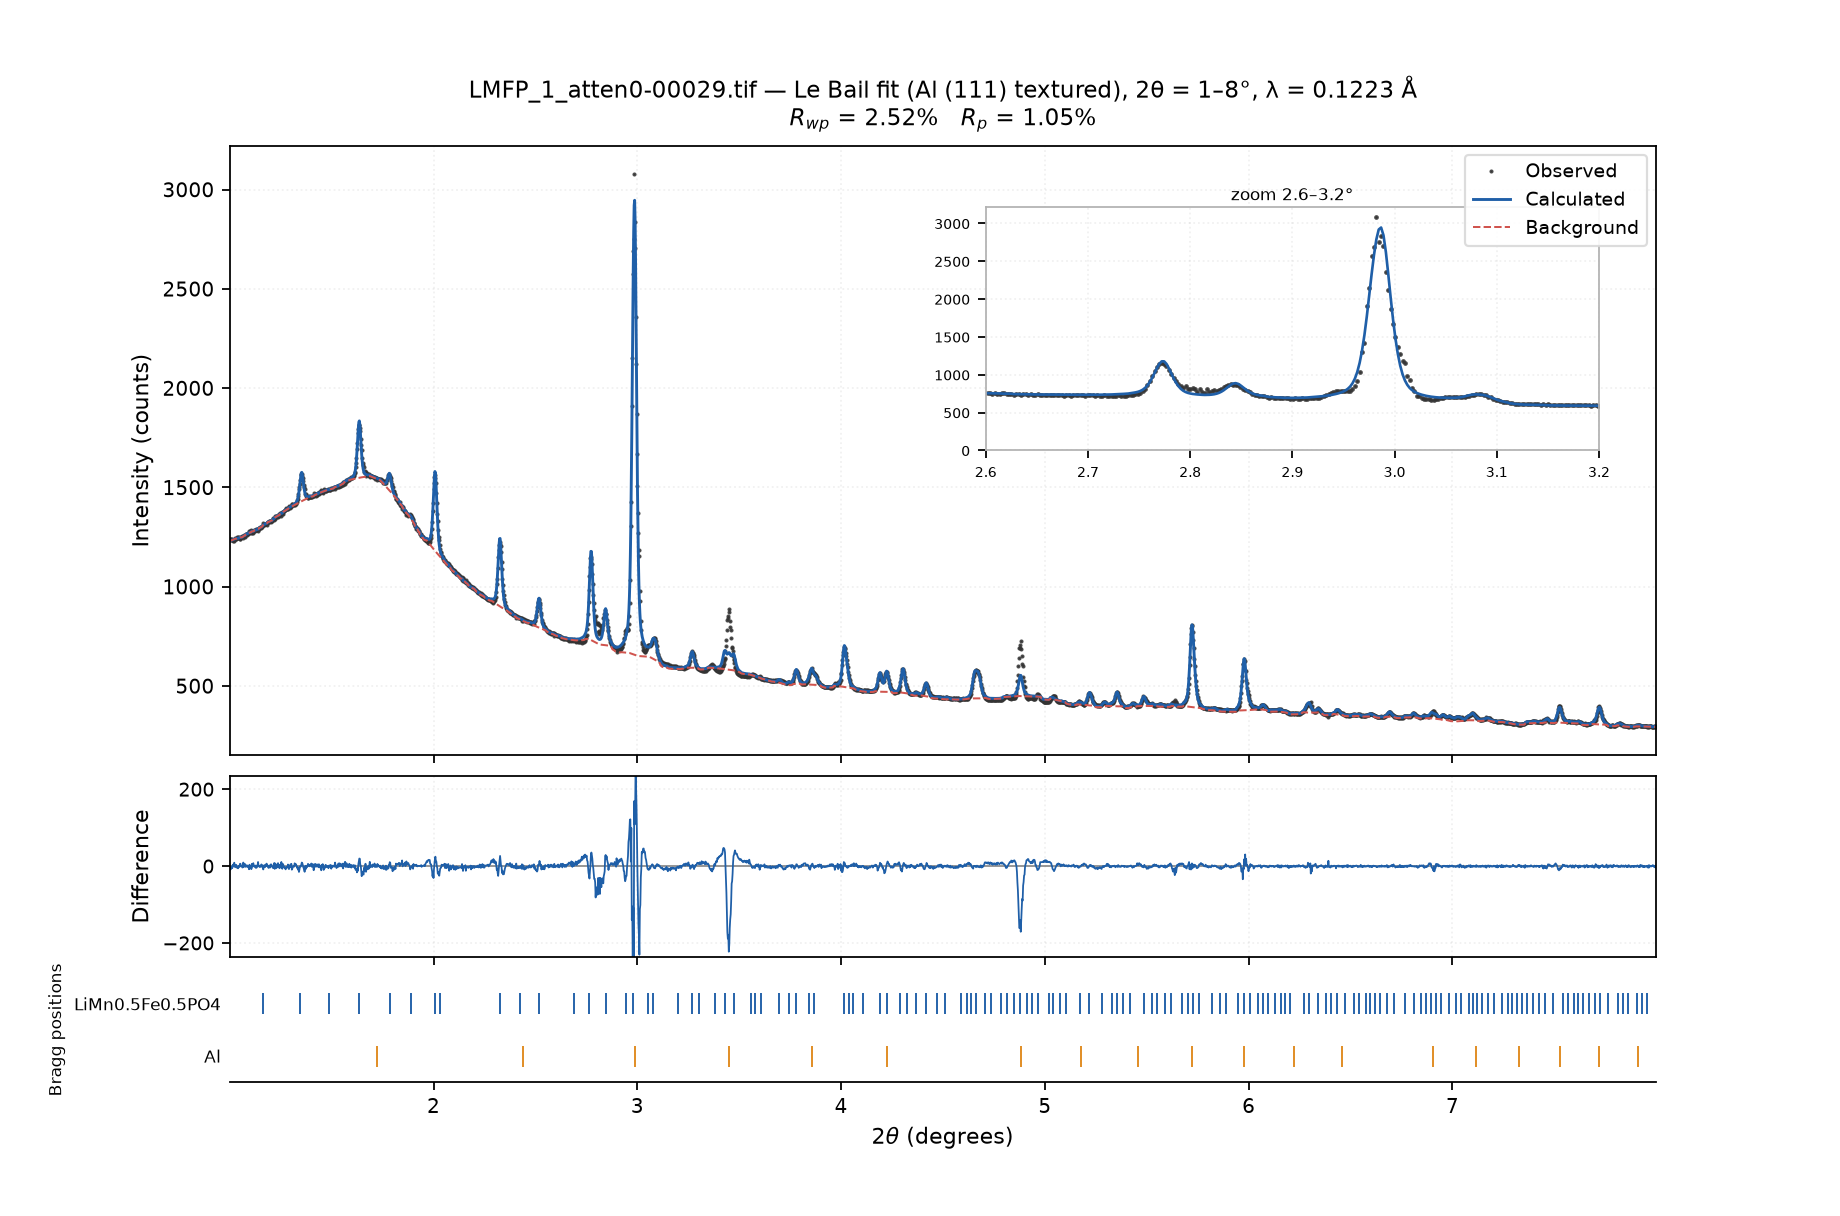
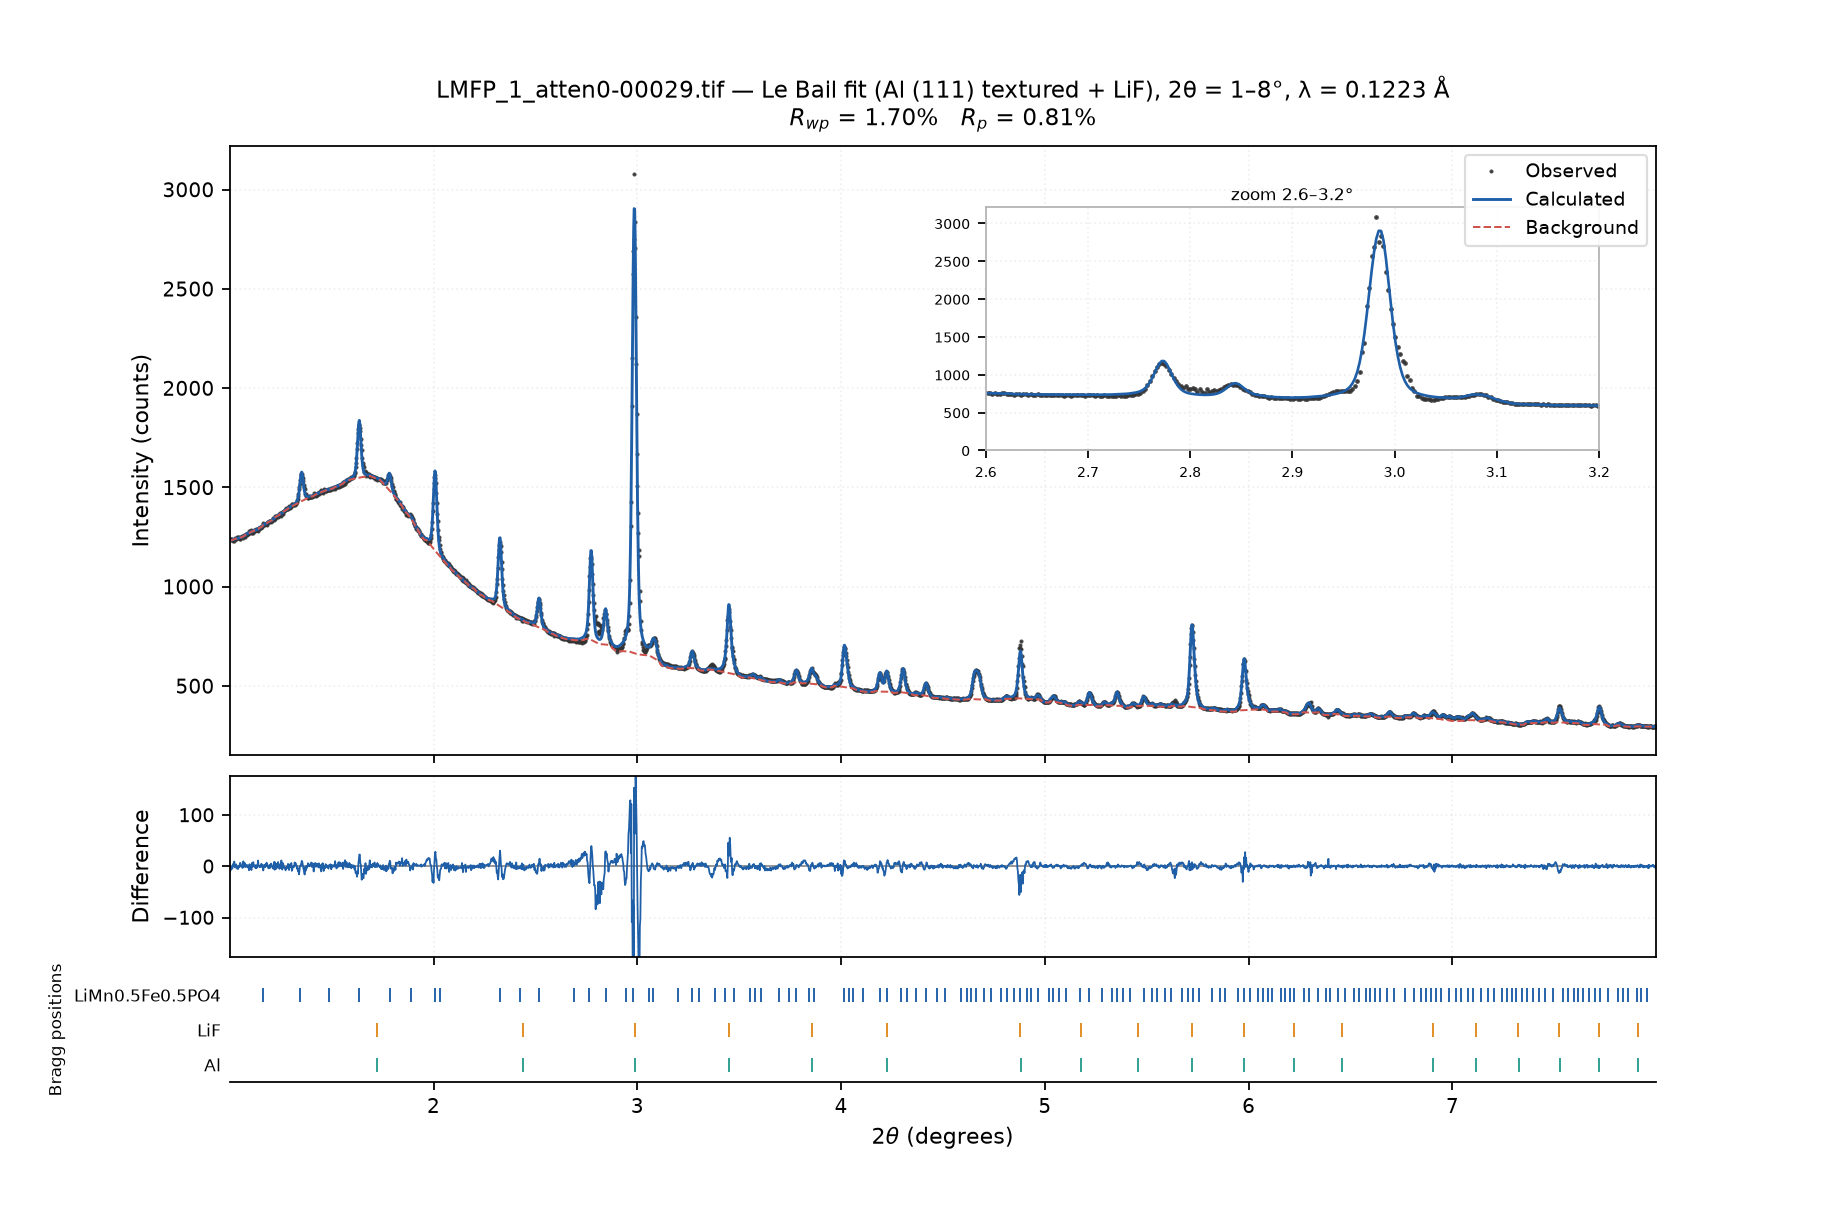
feat: identify the LMFP weak peaks as a LiF impurity
- the 3.449/4.881/5.724 deg peaks are the (200)/(220)/(311) reflections
  of rock-salt LiF with an effective a=4.062 A (literature 4.027 A,
  slightly expanded, consistent with strained SEI LiF); LiF (111) sits
  under Al (111)
- add data/structures/LiF_rock_salt.cif and include LiF in fit_lmfp /
  analyze_pattern by default (scale only, --no-lif to disable)
- LMFP Le Bail Rwp 2.53 -> 1.70%, structural 3.46 -> 2.90%, LiF scale
  ~0.084; refresh the figures/reports
- cross-check the new CIF in test_simulation

diff --git a/scripts/fit_lmfp.py b/scripts/fit_lmfp.py
@@ -48,6 +48,9 @@ LAB6_CIF = ROOT / "data" / "structures" / "LaB6_NIST660c.cif"
 # 样品晶胞初值：由低角峰 (200)/(101)/(111)/(020) 粗估（Å）
 SAMPLE_CELL = (10.376, 6.040, 4.708)
 AL_CIF = ROOT / "data" / "structures" / "Al_metal.cif"
+# 电极里常见的 LiF（SEI/电解液残留）：有效晶胞 a=4.062 Å；它的
+# (200)/(220)/(311) 正好在 3.45/4.88/5.72°，只放 scale。
+LIF_CIF = ROOT / "data" / "structures" / "LiF_rock_salt.cif"
 
 
 def load_1d(path, geom, tmin=1.0, tmax=8.0, npt=3000, hot_mask=False):
@@ -78,7 +81,7 @@ def instrument_profile(geom, lam):
 
 
 def fit_one(path, structure, geom, lam, inst, outdir, exclude, cif_cell,
-            use_al=False, phase_label=None, hot_mask=True):
+            use_al=False, phase_label=None, hot_mask=True, use_lif=True):
     t, y = load_1d(path, geom, hot_mask=hot_mask)
     bg = estimate_baseline_sliding(t, y, 0.2)
     w = 1.0 / np.maximum(y, 1.0)
@@ -90,16 +93,20 @@ def fit_one(path, structure, geom, lam, inst, outdir, exclude, cif_cell,
         w_struct = w_leb
 
     extras = []
+    if use_lif:
+        extras.append({
+            "structure": load_structure(str(LIF_CIF)), "label": "LiF",
+            "size_um": 0.1, "mustrain": 0.0, "b_iso": 0.5})
     if use_al:
         al = load_structure(str(AL_CIF))
-        extras = [{
+        extras.append({
             "structure": al, "label": "Al",
             "a": 4.061, "b": 4.061, "c": 4.061,
             "size_um": 0.1, "mustrain": 0.0, "b_iso": 0.5,
             # 铝箔是轧制的，(111) 强取向；固定 (111) 织构才能解释
             # 2.99° 的强峰与很弱的 (200)/(220)/(311)。
             "md": ((1, 1, 1), 0.5),
-        }]
+        })
     init = {
         "zero": inst.params["zero"],
         "u": inst.params["u"], "v": inst.params["v"], "w": inst.params["w"],
@@ -117,7 +124,7 @@ def fit_one(path, structure, geom, lam, inst, outdir, exclude, cif_cell,
     # 弱反射的相对强度受织构/晶粒统计影响，结构模型压不住；结构拟合
     # 只负责晶胞/微结构。不带 Al 时仍用排除 Al 区的 Le Bail。
     leb_weights = w if use_al else w_leb
-    leb_extras = extras if use_al else []
+    leb_extras = extras
     lebail = fit_pattern(
         structure, t, y, wavelength=lam, b_iso=0.5, background=bg,
         background_knots=0.25, weights=leb_weights, cell_refine=True,
@@ -131,10 +138,12 @@ def fit_one(path, structure, geom, lam, inst, outdir, exclude, cif_cell,
     tag = path.stem.rsplit("-", 1)[-1]
     out = outdir / f"sim_xrd_fit_LMFP_{tag}.png"
     plot_src = lebail
+    phases = (["Al (111) textured"] if use_al else []) + \
+             (["LiF"] if use_lif else [])
+    phase_txt = f" ({' + '.join(phases)})" if phases else ""
     plot_fit(
         plot_src,
-        f"{path.name} — Le Bail fit"
-        f"{' (Al (111) textured)' if use_al else ''}"
+        f"{path.name} — Le Bail fit{phase_txt}"
         f", 2θ = 1–8°, λ = {lam:.4f} Å",
         str(out), zoom=(2.6, 3.2),
         exclude_ranges=[] if use_al else list(exclude))
@@ -154,6 +163,8 @@ def main():
     ap.add_argument("--tmax", type=float, default=8.0)
     ap.add_argument("--no-hot-mask", action="store_true",
                     help="关掉坏点团掩膜（默认开；标样本来就不过掩膜）")
+    ap.add_argument("--no-lif", action="store_true",
+                    help="不加 LiF 杂质相（默认加；scale 自由，没有时归零）")
     a = ap.parse_args()
     geom = dict(get_config("lmfp1_lab6")["geometry"])
     lam = geom["wavelength_m"] * 1e10
@@ -189,9 +200,11 @@ def main():
         struct, lebail, out = fit_one(
             p, structure, geom, lam, inst, outdir, exclude, SAMPLE_CELL,
             use_al=use_al, phase_label=cif.stem.split("_")[0],
-            hot_mask=not a.no_hot_mask)
+            hot_mask=not a.no_hot_mask, use_lif=not a.no_lif)
         al_scale = (lebail.params.get("Al:scale") if use_al
                     and lebail is not None else struct.params.get("Al:scale"))
+        lif_scale = (lebail.params.get("LiF:scale")
+                     if lebail is not None else None)
         leb_txt = (f"{lebail.rwp:10.3f}" if lebail is not None
                    else f"{chr(8212):>10}")
         print(f"{p.name:>28} {struct.rwp:8.3f} {leb_txt} "
@@ -205,6 +218,8 @@ def main():
               f"ΔB={struct.params['b_iso']:+.2f} Å²"
               + (f"，Al scale（Le Bail）={al_scale:.3g}"
                  if al_scale is not None else "")
+              + (f"，LiF scale（Le Bail）={lif_scale:.3g}"
+                 if lif_scale is not None else "")
               + f"；→ {out}")
 
 

diff --git a/scripts/analyze_pattern.py b/scripts/analyze_pattern.py
@@ -42,6 +42,8 @@ OLIVINE_LIB = [
     STRUCT / "LiMnPO4_olivine.cif",
 ]
 AL_CIF = STRUCT / "Al_metal.cif"
+# 电极里常见的 LiF（SEI/电解液残留）：有效 a=4.062 Å
+LIF_CIF = STRUCT / "LiF_rock_salt.cif"
 DEFAULT_IMAGES = [
     ROOT / "data" / "LMFP_1_atten0-00029.tif",
     ROOT / "data" / "LMFP_1_atten0-00031.tif",
@@ -160,7 +162,7 @@ def al_substrate_ranges(obs_t, obs_h, lam, tmin, tmax, zero, primary_cif,
 
 
 def fit_one(path, primary, primary_name, cell0, geom, lam, inst, outdir,
-            exclude, tmin, tmax, use_al=False, hot_mask=True):
+            exclude, tmin, tmax, use_al=False, hot_mask=True, use_lif=True):
     t, y = load_1d(path, geom, tmin, tmax, hot_mask=hot_mask)
     bg = estimate_baseline_sliding(t, y, 0.2)
     w = 1.0 / np.maximum(y, 1.0)
@@ -169,14 +171,18 @@ def fit_one(path, primary, primary_name, cell0, geom, lam, inst, outdir,
         w_leb[(t > lo) & (t < hi)] = 0.0
     w_struct = w if use_al else w_leb
     extras = []
+    if use_lif and LIF_CIF.exists():
+        extras.append({"structure": load_structure(str(LIF_CIF)),
+                       "label": "LiF", "size_um": 0.1, "mustrain": 0.0,
+                       "b_iso": 0.5})
     if use_al and AL_CIF.exists():
         al = load_structure(str(AL_CIF))
-        extras = [{
+        extras.append({
             "structure": al, "label": "Al",
             "a": 4.061, "b": 4.061, "c": 4.061,
             "size_um": 0.1, "mustrain": 0.0, "b_iso": 0.5,
             "md": ((1, 1, 1), 0.5),      # 轧制铝箔的 (111) 织构
-        }]
+        })
     ip = {} if inst is None else {
         "zero": inst.params["zero"], "u": inst.params["u"],
         "v": inst.params["v"], "w": inst.params["w"],
@@ -209,8 +215,10 @@ def fit_one(path, primary, primary_name, cell0, geom, lam, inst, outdir,
     tag = path.stem.rsplit("-", 1)[-1]
     out = outdir / f"sim_xrd_fit_LMFP_{tag}.png"
     plot_src = lebail
+    phase_txt = " + ".join((["Al (111) textured"] if use_al else [])
+                           + (["LiF"] if use_lif else []))
     plot_fit(plot_src, f"{path.name} — auto: {primary_name}"
-                       + (" + Al (111) textured" if use_al else "")
+                       + (f" + {phase_txt}" if phase_txt else "")
                        + " Le Bail fit, "
                        f"λ = {lam:.4f} Å",
              str(out), zoom=(2.6, 3.2),
@@ -229,8 +237,11 @@ def main():
     ap.add_argument("--tmax", type=float, default=8.0)
     ap.add_argument("--no-hot-mask", action="store_true",
                     help="关掉坏点团掩膜（默认开；标样本来就不过掩膜）")
+    ap.add_argument("--no-lif", action="store_true",
+                    help="不加 LiF 杂质相（默认加；scale 自由，没有时归零）")
     a = ap.parse_args()
     hot_mask = not a.no_hot_mask
+    use_lif = not a.no_lif
     geom = dict(get_config(a.config)["geometry"])
     lam = geom["wavelength_m"] * 1e10
     outdir = Path(a.outdir)
@@ -282,9 +293,12 @@ def main():
             print("  未识别到 Al 集流体强峰")
         struct, lebail, out = fit_one(
             p, primary, top[1].name, cell0, geom, lam, inst, outdir,
-            exclude, a.tmin, a.tmax, use_al=use_al, hot_mask=hot_mask)
+            exclude, a.tmin, a.tmax, use_al=use_al, hot_mask=hot_mask,
+            use_lif=use_lif)
         al_txt = (f" Al={struct.params['Al:scale']:.3g}"
                   if "Al:scale" in struct.params else "")
+        al_txt += (f" LiF={struct.params['LiF:scale']:.3g}"
+                   if "LiF:scale" in struct.params else "")
         print(f"  结构：Rwp {struct.rwp:.3f}%  a={struct.params['a']:.4f} "
               f"b={struct.params['b']:.4f} c={struct.params['c']:.4f} "
               f"Size={struct.params['size_um']:.3f} µm "
@@ -309,6 +323,8 @@ def main():
                      f"B={struct.params['b_iso']:.4f}"
                      + (f" Al_scale={struct.params['Al:scale']:.6g}"
                         if "Al:scale" in struct.params else "")
+                     + (f" LiF_scale={struct.params['LiF:scale']:.6g}"
+                        if "LiF:scale" in struct.params else "")
                      + "\n")
             fh.write(f"Le Bail Rwp={lebail.rwp:.3f}%\n")
 

diff --git a/tests/test_simulation.py b/tests/test_simulation.py
@@ -109,6 +109,10 @@ class TestManualMatchesPymatgen(unittest.TestCase):
         # 实验拟合用的派生 CIF（只换 NIST SRM 660c 室温晶胞）
         self._check("LaB6_NIST660c.cif")
 
+    def test_lif_rock_salt(self):
+        # LMFP 里的 LiF 杂质相（岩盐，有效 a=4.062 Å）
+        self._check("LiF_rock_salt.cif")
+
     def test_al2o3(self):
         self._check("Al2O3_1000032.cif")
 

diff --git a/CHANGELOG.md b/CHANGELOG.md
@@ -18,6 +18,12 @@
 
 ### 模拟
 
+- **LMFP 三个弱峰 = LiF 杂质**（2026-10-23）：3.449/4.881/5.724° 不是
+  主相，是岩盐 LiF 的 (200)/(220)/(311)，有效 a=4.062 Å（文献 4.027，
+  略膨胀，符合 SEI/电解液残留的应变 LiF）；LiF (111) 藏在 Al (111)
+  下面。新增 `data/structures/LiF_rock_salt.cif`；`fit_lmfp` /
+  `analyze_pattern` 默认加 LiF（只放 scale，`--no-lif` 关）。LMFP
+  Le Bail **2.53 → 1.70%**，结构 **3.46 → 2.90%**，LiF scale ~0.084。
 - **橄榄石 CIF 修正**（2026-10-23）：仓库三个 CIF 的晶胞原来都是
   10.236/5.971/4.655 Å（P1 派生，比实验小 ~1.4%）。换成实验 COD 条目：
   LiFePO4 10.336/6.006/4.693（COD 4001845）、LMFP 50/50
@@ -255,6 +261,12 @@
 
 ### 模拟
 
+- **LMFP 三个弱峰 = LiF 杂质**（2026-10-23）：3.449/4.881/5.724° 不是
+  主相，是岩盐 LiF 的 (200)/(220)/(311)，有效 a=4.062 Å（文献 4.027，
+  略膨胀，符合 SEI/电解液残留的应变 LiF）；LiF (111) 藏在 Al (111)
+  下面。新增 `data/structures/LiF_rock_salt.cif`；`fit_lmfp` /
+  `analyze_pattern` 默认加 LiF（只放 scale，`--no-lif` 关）。LMFP
+  Le Bail **2.53 → 1.70%**，结构 **3.46 → 2.90%**，LiF scale ~0.084。
 - **橄榄石 CIF 修正**（2026-10-23）：仓库三个 CIF 的晶胞原来都是
   10.236/5.971/4.655 Å（P1 派生，比实验小 ~1.4%）。换成实验 COD 条目：
   LiFePO4 10.336/6.006/4.693（COD 4001845）、LMFP 50/50
